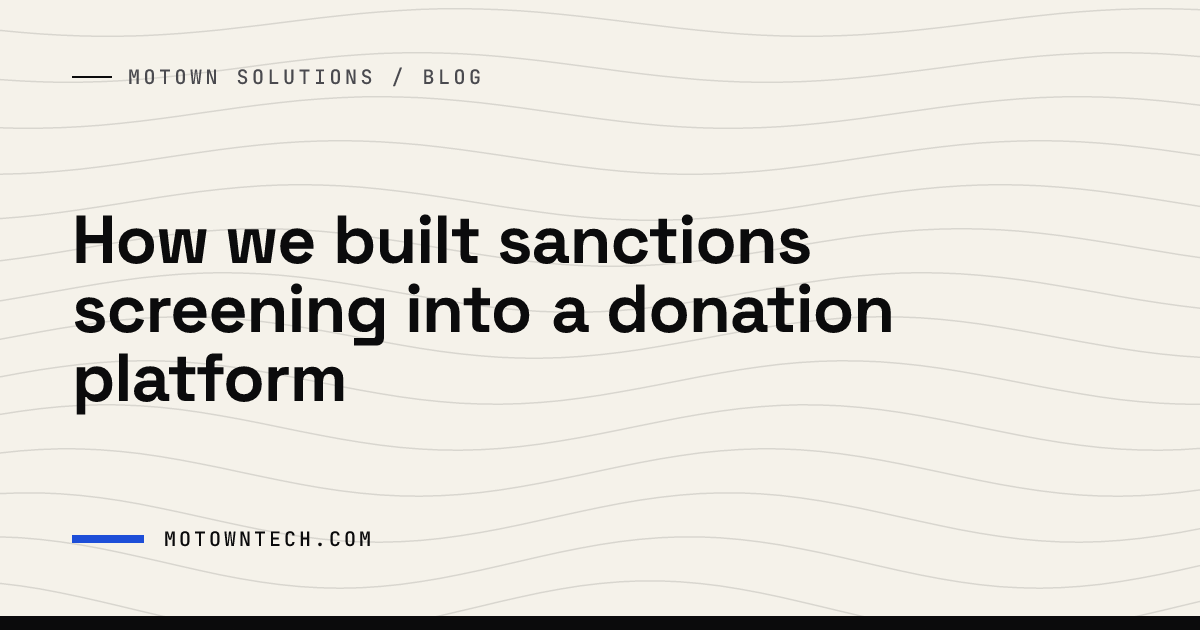
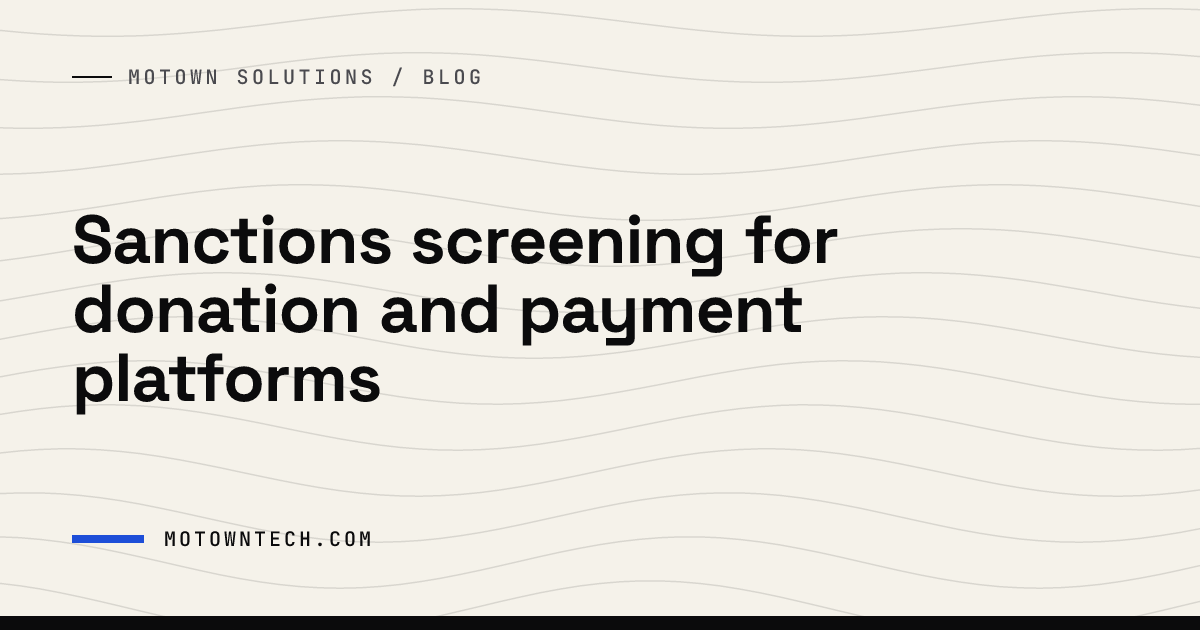
copy(blog): rewrite the donation-platform-screening post around the reader's problem

Changed region(s): [[0.0617, 0.3317, 0.74, 0.573], [0.2775, 0.573, 0.3392, 0.6333]]

diff --git a/src/content/blog/donation-platform-screening.md b/src/content/blog/donation-platform-screening.md
@@ -1,58 +1,61 @@
 ---
-title: "How we built sanctions screening into a donation platform"
+title: "Sanctions screening for donation and payment platforms"
 image: ../../assets/blog/donation-platform-screening-image.jpg
 imageAlt: "A mesh sieve on a blue surface letting small white pebbles through and holding back larger stones"
 cover: ../../assets/blog/donation-platform-screening.png
-description: "Taking donations for other organizations brings sanctions screening, charity checks and records that must hold up. Here is how that shaped one platform."
+description: "Taking payments for other organizations means screening every payer. Where the check sits, what it does when it fails and what it records matter most."
 pubDate: 2026-09-09
 relatedPages: ["/case-studies/donation-platform"]
 category: case-stories
 ---
 
-We put sanctions screening inside the one function every donation passes through, so every donor is checked before a record is written or a payment exists. The platform we're building lets nonprofits run campaigns and always-on donation pages, and donors give by card, digital wallet or a grant from a donor-advised fund. Once a platform takes payments on behalf of other organizations, it picks up obligations that have little to do with payments: sanctions screening, checking that a charity is what it says it is, and keeping records that still hold up years later.
+If your platform takes payments on behalf of other organizations, you are responsible for more than the payment. You have to screen who is paying, check who is receiving, and keep records that still hold up years later. All of that is cheap to build in at the start and expensive to add once money is already moving.
 
-We treated those obligations as part of the architecture from the first week. Most of them are cheap to get right at the start and expensive to add once money is already moving.
+## Put the check where every payment has to pass
 
-## Screening sits where every donation passes
+The first decision is where screening lives. A sanctions check that sits beside the main payment flow gets routed around eventually, usually when someone adds a new way to pay and forgets to call it.
 
-Every donor is checked against the sanctions lists before anything else happens. There is one function that every donation route goes through to identify the donor, and the check lives there. It runs before a record is written or a payment is created, for card gifts and donor-advised fund grants alike.
+Find the one place every payment route already goes through, and put the check there. On a donation platform we're building for nonprofits, that's the function that identifies the donor. Card gifts and donor-advised fund grants both pass through it, and the check runs before a record is written or a payment exists.
 
-A check that sits beside the main path tends to get routed around eventually, for example when someone adds a new way to give.
+Speed is no reason to put it elsewhere. That platform stores the watchlists locally and queries them in about half a millisecond, with no outside vendor between a donor and their gift.
 
-The watchlists are stored locally and queried in about half a millisecond. No outside vendor sits between a donor and their gift, and screening adds no noticeable wait.
+## Decide now what happens when the check can't run
 
-## Say no without saying why
+Sooner or later the lists won't be reachable. The safe answer is to decline the payment. That can feel harsh, but a check that switches itself off during an outage stops protecting you at exactly the moment it matters. If you'd rather let payments through, make sure someone decided that on purpose and recorded why.
 
-When a donor matches, the platform declines the gift with a neutral message that never mentions a watchlist. That sounds unfriendly until you know the rule behind it: telling a designated person they matched a sanctions list is itself a violation.
+## Decline quietly and record everything
 
-If the lists can't be queried for any reason, the donation is declined. We built it that way on purpose. A check that turns itself off during an outage stops protecting anyone at exactly the moment it matters.
+When a payer does match, the message they see matters. Telling a designated person they matched a sanctions list is itself a violation, so the decline should be neutral and never mention a watchlist.
 
-The platform also records the donors who passed, alongside the ones who were blocked. "We screen everyone" is only a claim you can defend later if the passes are on record too.
+Keep a record of the donors who passed, too. A log of blocks alone can't show that anyone else was screened, and "we screen everyone" is only a claim you can defend later if the passes are on record.
 
-## Two lists, two different responses
+## Not every list check should block
 
-Charity verification looks like the same feature as sanctions screening. Both match a name against a government list. They get opposite treatment.
+Charity verification looks like the same feature as sanctions screening, since both match a name against a government list. On a giving platform they need opposite responses. Sanctions violations carry strict liability, so a match blocks the gift. Charity verification should only advise. Churches are exempt without ever applying and most don't appear on the federal list, so treating a missing charity as a red flag would block legitimate gifts.
 
-Sanctions screening blocks the donation, because violations carry strict liability. Charity verification is advisory. Churches are exempt without ever applying, and most of them don't appear on the federal list at all, so treating a missing charity as a red flag would block legitimate gifts.
+Before you build any list check, ask what it costs to be wrong in each direction. That answer sets the default.
 
-## Matching names nobody spells the same way
+## Test your name matching against ordinary names
 
-A sanctions list might write "SMITH, John" and a donor types "John Smith." The platform normalizes both into the same set of words, with accents, punctuation, titles and company suffixes stripped out, so those compare as equal.
+A list might write "SMITH, John" while a donor types "John Smith." Normalize both sides, stripping accents, punctuation, titles and company suffixes, so those compare as equal.
 
-Tuning that match took work. In our testing, a naive "is this name contained in a listed name" check flagged six of twenty ordinary donor names. "Maria Garcia" sits inside a longer listed name, and a platform that declines her gift is worse than useless. Allowing exactly one extra word brought it down to three of twenty, and those three are genuine possible matches that a person should review.
+Then test it against everyday names. In our testing, a simple "is this name contained in a listed name" check flagged six of twenty ordinary donor names. "Maria Garcia" sits inside a longer listed name, and a platform that declines her gift is worse than useless. Allowing exactly one extra word brought it down to three of twenty, and those three were genuine possible matches for a person to review.
 
-No setting gets you zero false alarms and zero misses at the same time. The work is choosing where to sit, measuring that choice against the real lists, and writing down what it still lets through. This system has no fuzzy matching yet, so a name transliterated differently can slip past. That gap is written down in the repository.
+No setting gives you zero false alarms and zero misses. Pick where to sit, measure it against the real lists, and write down what it still lets through. That platform has no fuzzy matching yet, so a name transliterated differently can slip past, and the gap is documented in the repository.
 
-## Money that can't be sent twice
+## Assume a payment partner might process a request twice
 
-Donor-advised fund providers are third-party services that don't guarantee a retried request won't be processed twice. So every provider runs through the same pattern on our side: the grant is reserved before the request goes out, a response that comes back unclear is handled as its own case and never assumed to be a success, and receipts come from our own record.
+If you call outside services to move money, find out whether a retried request is safe. The donor-advised fund providers on that platform don't guarantee it. So the grant is reserved before the request goes out, a response that comes back unclear is handled as its own case and never assumed to be a success, and receipts come from the platform's own record.
 
-Donations are direct charges to the receiving organization, and the platform never holds a balance of its own. Each organization's credentials are encrypted, and production refuses to start if the encryption key is missing.
+It also helps not to hold the money at all. Donations there are direct charges to the receiving organization, and the platform never keeps a balance of its own.
 
-## Writing down what isn't finished
+## A short list to check your platform against
 
-The platform is still being built, and the README has a section for known limitations: list imports are still run by hand instead of on a schedule, one security migration is waiting behind feature flags for the frontend release, and a rate-limiting ceiling stays in place until shared counters land.
-
-We think that section is as useful as the features list. Whoever works on the system next starts from a written list of known limits.
+- Every payment route passes through the screening check, including routes added later.
+- The check declines the payment when it can't run.
+- Decline messages never mention a watchlist.
+- Passes are recorded alongside blocks.
+- Each list check blocks or advises based on what a wrong answer would cost.
+- Name matching has been measured against real names, and its gaps are written down.
 
 The [donation platform case study](/case-studies/donation-platform) has the full technical detail. If your product moves payments, donations or [regulated data](/soc-2-readiness), [tell us what it does and who you answer to](/contact), and we'll tell you which obligations belong in the architecture now and which can wait.

diff --git a/linkedin/donation-platform-screening/post.md b/linkedin/donation-platform-screening/post.md
@@ -2,30 +2,27 @@
 
 ## Post 1: native text
 
-When a giving platform declines a sanctioned donor, it can't tell them why.
+If your platform takes payments for other organizations, you're responsible for more than the payment.
 
-Telling a designated person they matched a sanctions list is itself a violation. So the decline message is neutral and never mentions a watchlist.
+You have to screen who's paying. Most of the rules for that are cheap to build in early and expensive to add once money is moving.
 
-That was one of several rules that shaped a donation platform we're building for nonprofits. Once you take payments on behalf of other organizations, you inherit obligations that have little to do with payments.
+A few worth checking against your own platform:
 
-A few of the decisions:
+• Put the sanctions check in the one place every payment route already passes through. A check beside the main flow gets skipped the day someone adds a new way to pay.
+• Decide now what happens when the lists can't be reached. Declining is the safe answer, because a check that switches off during an outage protects nobody.
+• Keep decline messages neutral. Telling a designated person they matched a sanctions list is itself a violation.
+• Record the passes as well as the blocks. Otherwise you can't show you screened everyone.
+• Not every list check should block. On a giving platform, charity verification should only advise, since churches are exempt and mostly aren't on the federal list.
 
-• Every donor is screened in the one function every donation passes through, before a record is written or a payment exists.
-• If the lists can't be checked, the gift is declined. A check that switches off during an outage protects nobody.
-• Donors who pass are recorded too, so "we screen everyone" can be shown later.
-• Charity verification is advisory only, because churches are exempt and mostly don't appear on the federal list.
-
-Name matching took real tuning. A naive check flagged six of twenty ordinary donor names in our tests. Allowing one extra word brought it to three, and those three deserve a person's review.
-
-Most of these are cheap to build in at the start and expensive to add once money is moving.
+Then test your name matching on ordinary names. On a donation platform we're building, a naive check flagged six of twenty everyday donor names. Allowing one extra word brought it to three, and those three deserve a person's review.
 
 Full write-up in the comments.
 
 ## Post 2: carousel (~/Documents/Motown Carousels/donation-platform-screening.pdf)
 
-Document title: Compliance rules a giving platform can't skip
+Document title: Sanctions screening for platforms that take payments
 
-Five decisions from a donation platform that screens every donor without telling any of them. Swipe through, and the full write-up is in the comments.
+Five checks for any platform that takes payments on behalf of other organizations. Swipe through, and the full write-up is in the comments.
 
 ## First comment (both posts)
 
